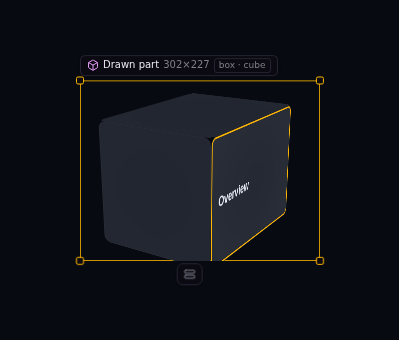
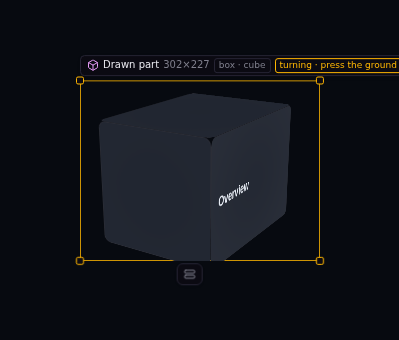
A selected part drags at once; a solid is opened to turn it
HIS WORDS: "also once i selected something i have to click off and then
clicck and hold to drag."

Reproduced first, and it was real but narrow: every ordinary part already
dragged on the press that selected it (610,0 -> 760,80 -> 912,160). The two
parts you handle on the board, the cube and the mesh, did not. Selecting
one handed it the pointer so it could be turned, and having taken the
pointer it swallowed the press that would have moved it: a selected cube
measured 510,0 -> 510,0 on a press and a hold, and moved only after the
ground was pressed first, which is exactly what he described.

Selecting is now only selecting, for every part alike. A solid is OPENED
for handling by a second press on it, and from then until the ground is
pressed it has the pointer and the keys. The two presses are timed in the
board's own pointer handler rather than read off a dblclick: a pointerdown
carries no click count by spec, and the click that does is delivered to
whatever captured the pointer, which is the board and never the part.

The part says which state it is in and the way out of it, because a
gesture nobody can see is a gesture nobody uses.

Measured, tests/selected-drags.mjs 12/12: a freshly selected cube now goes
510,0 -> 664,80 -> 816,160 with no click off in between; opened, a drag
turns it -18,-32 -> -18,151 and leaves it at 816,160. Cube suites carried
to the new gesture and rerun: cube 63/63, cube-part 30/30, cube-second
31/31, box-to-cube 82/82, drag-lets-go 5/5.
[…]

diff --git a/src/features/studio/Canvas.tsx b/src/features/studio/Canvas.tsx
@@ -46,13 +46,24 @@ import { openRadial, pageSpot } from "./RadialMenu";
 const GRID = 8;
 
 /**
- * Parts that take the pointer on the board once they are selected.
+ * Parts that take the pointer on the board once they have been OPENED.
  *
  * A very short list on purpose, and both of them are on it for the same
  * reason: they are solids, and looking at a solid tells you nothing that
- * turning it does. See `handsOn`.
+ * turning it does.
+ *
+ * It used to be "once they are selected", and that is the bug he found:
+ * "once i selected something i have to click off and then clicck and hold
+ * to drag." Selecting one handed it the pointer, so the press that would
+ * have moved it turned it instead, and the only way to move it was to let
+ * go of it first. Now selecting is only selecting, opening is a second
+ * press, and the ground closes it. See `handsOn`.
  */
 const HANDS_ON = new Set(["cube-3d", "mesh-3d"]);
+/** Two presses this close together, on the same part, are one gesture. */
+const DOUBLE_MS = 400;
+/** …and they have to land within this many board pixels of each other. */
+const DOUBLE_SLOP = 8;
 
 /** Parts that wear a drawn icon when one is dropped on them. */
 const WEARS_AN_ICON = new Set(["cta-primary", "quick-action", "follow"]);
@@ -354,6 +365,16 @@ export function Canvas() {
   const dragRef = React.useRef(drag);
   dragRef.current = drag;
   const carryRef = React.useRef<((x: number, y: number) => void) | null>(null);
+  /**
+   * The last press on a part, so a second press on the same one can be told
+   * from a first.
+   *
+   * A pointer event carries no click count — `detail` is 0 on every
+   * `pointerdown` by spec — and the `dblclick` that does carry one is
+   * delivered to whatever captured the pointer, which is the board, never
+   * the part. So the two presses are timed here.
+   */
+  const pressed = React.useRef<{ id: string; at: number; x: number; y: number } | null>(null);
 
   const toCanvas = React.useCallback(
     (clientX: number, clientY: number) => {
@@ -823,6 +844,30 @@ export function Canvas() {
           store.setSelection(ids);
         }
         play("select");
+        /*
+         * The second press opens a solid for handling.
+         *
+         * A cube is a thing you turn, and turning it is a drag across it —
+         * the same gesture that moves every other part on the board. That
+         * collision is what he found: "once i selected something i have to
+         * click off and then clicck and hold to drag." So the two gestures
+         * are told apart by how many presses they start with. One press
+         * selects and moves, like everything else. Two says "I am turning
+         * this one", and from then until the ground is pressed the part has
+         * the pointer and the keys.
+         *
+         * It is read off the press itself rather than from a `dblclick`
+         * handler on the part: the board captures the pointer, so the
+         * click that follows is delivered to the board and never reaches
+         * the part at all.
+         */
+        const last = pressed.current;
+        const again = !!last && last.id === id && e.timeStamp - last.at < DOUBLE_MS && Math.hypot(p.x - last.x, p.y - last.y) < DOUBLE_SLOP;
+        pressed.current = { id, at: e.timeStamp, x: p.x, y: p.y };
+        if (again && node && !node.locked && HANDS_ON.has(node.featureId) && ids.length === 1) {
+          store.hold(id);
+          return;
+        }
         capture();
         const origin: Drag["origin"] = {};
         for (const n of store.nodes) if (ids.includes(n.id)) origin[n.id] = { x: n.x, y: n.y, w: n.w, h: n.h };
@@ -1992,12 +2037,18 @@ const NodeView = React.memo(function NodeView({ node, selected, theme, palette, 
         : undefined;
   const feature = getFeature(node.featureId);
   /**
-   * The parts that are worth touching on the board itself, once they are
-   * the selected one. A very short list on purpose: a part earns a place
-   * here only when looking at it tells you nothing and handling it tells
-   * you everything.
+   * The parts that are worth touching on the board itself, once they have
+   * been opened. A very short list on purpose: a part earns a place here
+   * only when looking at it tells you nothing and handling it tells you
+   * everything.
+   *
+   * Opened, not selected. A selected part is a part you are working on and
+   * it drags like every other part on the board — that is his complaint,
+   * and it is answered here. A part you are HANDLING is one you pressed
+   * twice, and while it is open the press belongs to it.
    */
-  const handsOn = selected && HANDS_ON.has(node.featureId);
+  const canHandle = HANDS_ON.has(node.featureId);
+  const handsOn = useStudio((s) => s.handling === node.id) && canHandle;
   // The face being pointed at, when this is the cube it belongs to.
   const pickedSide = useStudio((s) => (handsOn && s.pickedFace?.nodeId === node.id ? s.pickedFace.side : null));
   const cat = feature ? categoryOf(feature.category) : null;
@@ -2101,12 +2152,13 @@ const NodeView = React.memo(function NodeView({ node, selected, theme, palette, 
          *
          * One exception, and it is the whole point of the part it is for. A
          * cube is a thing you turn; a cube you cannot turn is a picture of a
-         * cube. So when it is the selected part — already the state that
-         * means "I am working on this one" — it takes the pointer and the
-         * keys. Unselected it is inert like everything else, which is how it
-         * is still dragged around the page: click the ground to let go of
-         * it, then drag it.
+         * cube. So a cube you have OPENED — pressed twice, which is a
+         * deliberate "I am handling this one" — takes the pointer and the
+         * keys. Merely selecting it does not, because that was the bug:
+         * selecting it handed it the press that would have moved it, and
+         * the only way to move it was to let go of it first.
          */
+        data-handling={handsOn ? "" : undefined}
         inert={handsOn ? undefined : true}
         style={{
           pointerEvents: handsOn ? "auto" : "none",
@@ -2211,6 +2263,14 @@ const NodeView = React.memo(function NodeView({ node, selected, theme, palette, 
         <span className="num text-fg-faint">{node.w}×{node.h}</span>
         {/* What the drawing was read as, on the part it made: a box says it is a box. */}
         {node.kind === "cube" ? <span data-kind-chip="cube" className="rounded-xs border border-border px-1 text-[9px] text-fg-faint">box · cube</span> : null}
+        {/* A solid is turned, and a gesture nobody can see is a gesture
+            nobody uses. So the part says which of the two it is in, and the
+            way out of the one it is in. */}
+        {canHandle && selected
+          ? <span data-hold-chip={handsOn ? "open" : "shut"} className="rounded-xs border px-1 text-[9px]" style={{ borderColor: mark, color: mark }}>
+              {handsOn ? "turning · press the ground to stop" : "press twice to turn it"}
+            </span>
+          : null}
         {hasPrompt ? <span className="size-1.5 rounded-full bg-accent" title="Has its own prompt" /> : null}
         {node.priority !== "must" ? <span className="rounded-xs border border-border px-1 text-[9px] uppercase text-fg-faint">{node.priority}</span> : null}
         {node.locked ? <span className="text-[9px] text-fg-faint">locked</span> : null}

diff --git a/src/features/studio/store.ts b/src/features/studio/store.ts
@@ -705,6 +705,22 @@ interface StudioState extends Doc {
    */
   pickedFace: { nodeId: string; side: CubeSide } | null;
   pickFace: (nodeId: string, side: CubeSide | null) => void;
+  /**
+   * The one part that has been OPENED, or none.
+   *
+   * HIS WORDS: "also once i selected something i have to click off and then
+   * clicck and hold to drag."
+   *
+   * Two parts on the board are handled rather than looked at — the cube and
+   * the mesh — and they used to take the pointer the moment they were
+   * selected, so the press that would have moved them turned them instead.
+   * Selecting a part is now only selecting it: it drags like every other
+   * part on the board. Taking hold of one is a second, deliberate press, and
+   * this is the part that press opened. Transient like the selection, and
+   * let go of the moment the selection moves off it.
+   */
+  handling: string | null;
+  hold: (nodeId: string | null) => void;
   /** …and the same for a solid, which is turned the same way. */
   setMeshTurn: (nodeId: string, turn: { x: number; y: number }) => void;
 
@@ -1235,6 +1251,7 @@ export const useStudio = create<StudioState>()(
         activePageId: "page_home",
         selection: [],
         pickedFace: null,
+        handling: null,
         tool: "select",
         inkHue: 265,
         inkWidth: 3,
@@ -1444,6 +1461,8 @@ export const useStudio = create<StudioState>()(
         },
 
         pickFace: (nodeId, side) => set({ pickedFace: side ? { nodeId, side } : null }),
+
+        hold: (nodeId) => set({ handling: nodeId }),
 
         setCubeTurn: (nodeId, turn) =>
           set((s) => ({
@@ -1736,7 +1755,13 @@ export const useStudio = create<StudioState>()(
         },
 
         setSelection: (ids) =>
-          set((s) => ({ selection: ids, pickedFace: s.pickedFace && ids.length === 1 && ids[0] === s.pickedFace.nodeId ? s.pickedFace : null })),
+          set((s) => ({
+            selection: ids,
+            pickedFace: s.pickedFace && ids.length === 1 && ids[0] === s.pickedFace.nodeId ? s.pickedFace : null,
+            // A part you were handling is let go of the moment it stops being
+            // the only selected one, so the ground closes it as it always did.
+            handling: s.handling && ids.length === 1 && ids[0] === s.handling ? s.handling : null,
+          })),
         toggleSelection: (id) =>
           set((s) => ({ selection: s.selection.includes(id) ? s.selection.filter((x) => x !== id) : [...s.selection, id] })),
         selectAll: () =>
